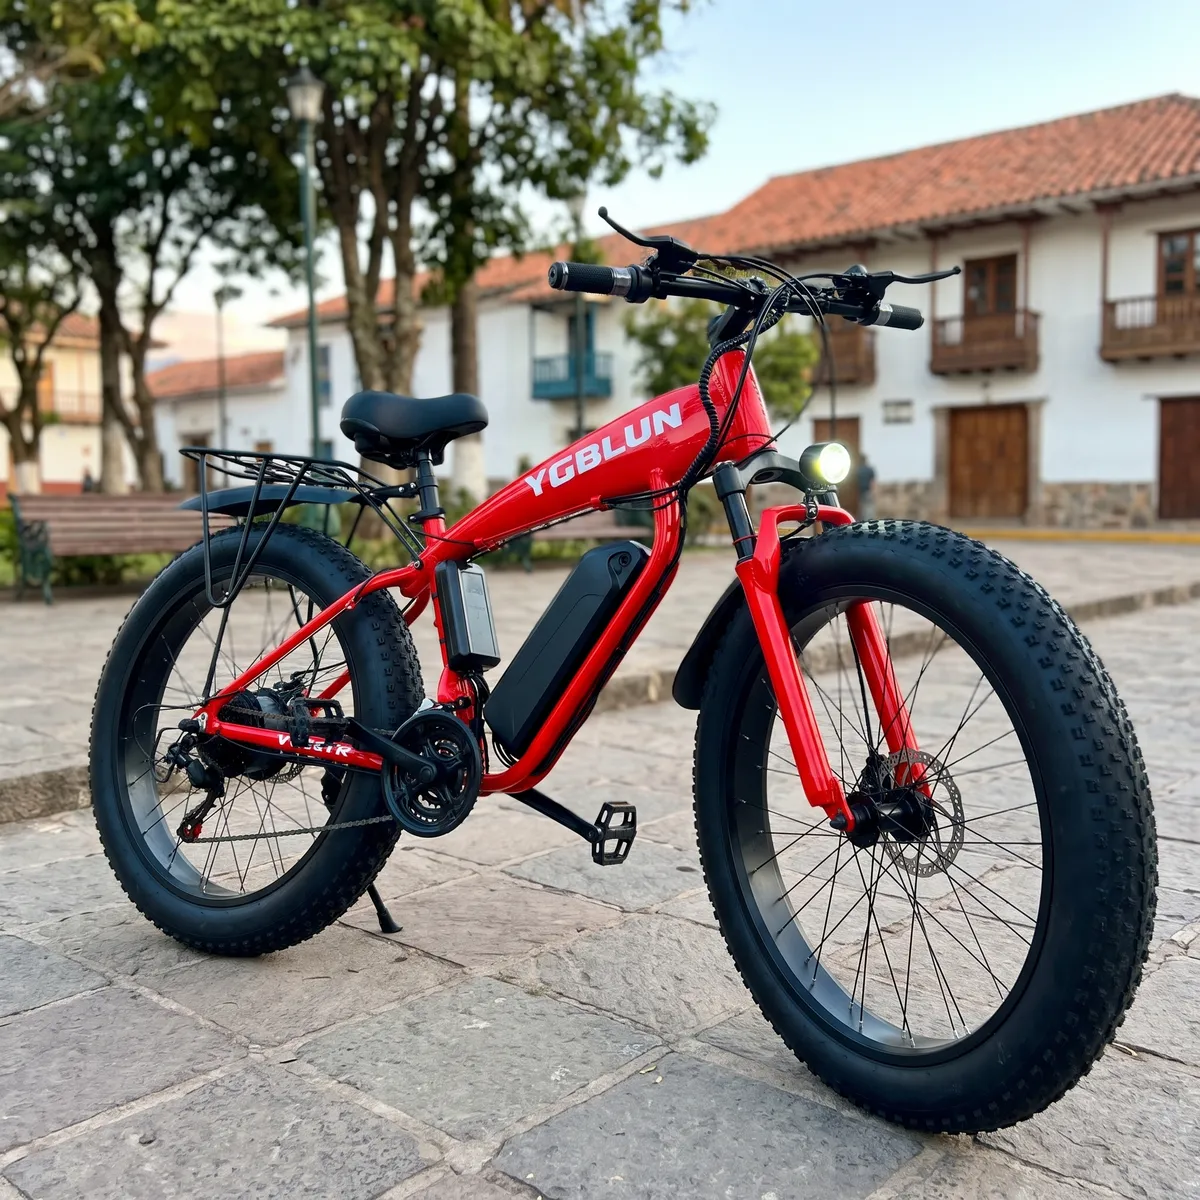
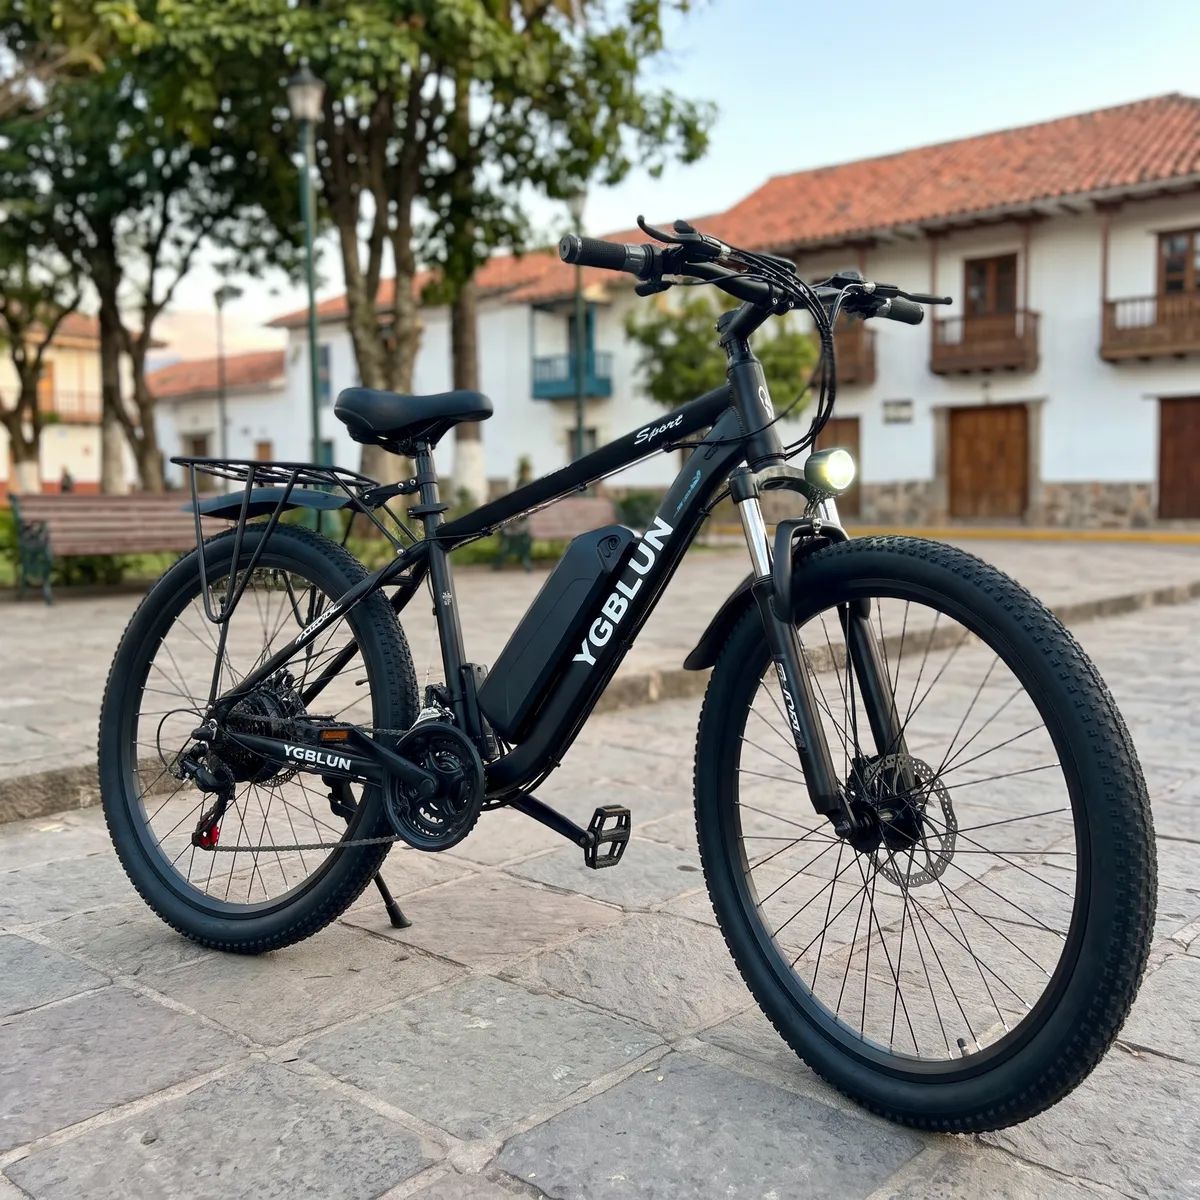
feat: agregar Bicicleta Sport Bike Aro 29 y actualizar rango de precios en siteConfig

diff --git a/src/data/products.js b/src/data/products.js
@@ -219,14 +219,14 @@ export const PRODUCTS = [
   // BICICLETAS Y BICIMOTOS
   // ==========================================
   {
-    id: "sport-bike",
-    name: "Bicicleta Sport Bike",
+    id: "fat-bike",
+    name: "Bicicleta Fat Bike",
     tag: "Llanta Gruesa Aro 26",
     cat: "Bicicletas y bicimotos",
     price: "Bs 8.800",
     line: "800 W · Aro 26 · Batería Litio 48V 10Ah",
-    desc: "Bicicleta eléctrica todoterreno de llanta gruesa Aro 26 con cuadro robusto, suspensión delantera, encendido inteligente por tarjeta NFC y batería de litio de alta durabilidad.",
-    imgs: ["/img/bicicletas/bicicleta-sportbike.webp"],
+    desc: "Bicicleta eléctrica todoterreno Fat Bike con llanta gruesa Aro 26, cuadro robusto, suspensión delantera, encendido inteligente por tarjeta NFC y batería de litio de alta durabilidad.",
+    imgs: ["/img/bicicletas/bicicleta-fatbike.webp"],
     warranty: "+1 Año por motor eléctrico",
     colors: ["Blanco", "Rojo", "Negro"],
     specs: [
@@ -265,6 +265,30 @@ export const PRODUCTS = [
       { label: "Llantas", val: 'Fat tire 20" x 4.0' },
       { label: "Seguridad y extras", val: "Guiñadores y Tarjeta NFC" },
       { label: "Incluye", val: "2 llaves y 1 cargador" },
+    ],
+  },
+  {
+    id: "sport-bike",
+    name: "Bicicleta Sport Bike",
+    tag: "Aro 29 · MTB Eléctrica",
+    cat: "Bicicletas y bicimotos",
+    price: "Bs 6.500",
+    line: "500 W · Aro 29 · Batería Litio 48V 10Ah",
+    desc: "Bicicleta eléctrica todoterreno Sport Bike Aro 29 con cuadro deportivo, suspensión delantera, frenos a disco, panel digital y batería de litio removible de alta eficiencia.",
+    imgs: ["/img/bicicletas/bicicleta-sportbike.webp"],
+    warranty: "+1 Año por motor eléctrico",
+    colors: ["Negro", "Azul", "Verde pastel", "Plomo"],
+    specs: [
+      { label: "Potencia de motor", val: "500 Watts" },
+      { label: "Autonomía", val: "Hasta 40 km por carga" },
+      { label: "Velocidad máxima", val: "Hasta 40 - 45 km/h" },
+      { label: "Batería", val: "Litio (48V 10Ah)" },
+      { label: "Frenos", val: "Frenos a disco" },
+      { label: "Panel", val: "Digital completo" },
+      { label: "Capacidad de carga", val: "Soporta 150 kg" },
+      { label: "Amortiguadores", val: "Delanteros" },
+      { label: "Aro", val: "N° 29" },
+      { label: "Equipamiento", val: "Parrilla trasera y faro frontal LED" },
     ],
   },
 

diff --git a/src/data/siteConfig.js b/src/data/siteConfig.js
@@ -8,5 +8,5 @@ export const siteConfig = {
   tiktok: "https://www.tiktok.com/@greencenter.bolivia?lang=es",
   facebook: "https://www.facebook.com/GreenCenterBolivia?locale=es_LA",
   openingHours: "Lunes a Sábado de 08:30 a 18:30",
-  priceRange: "Bs 8.900 - Bs 94.280",
+  priceRange: "Bs 6.500 - Bs 94.280",
 };
